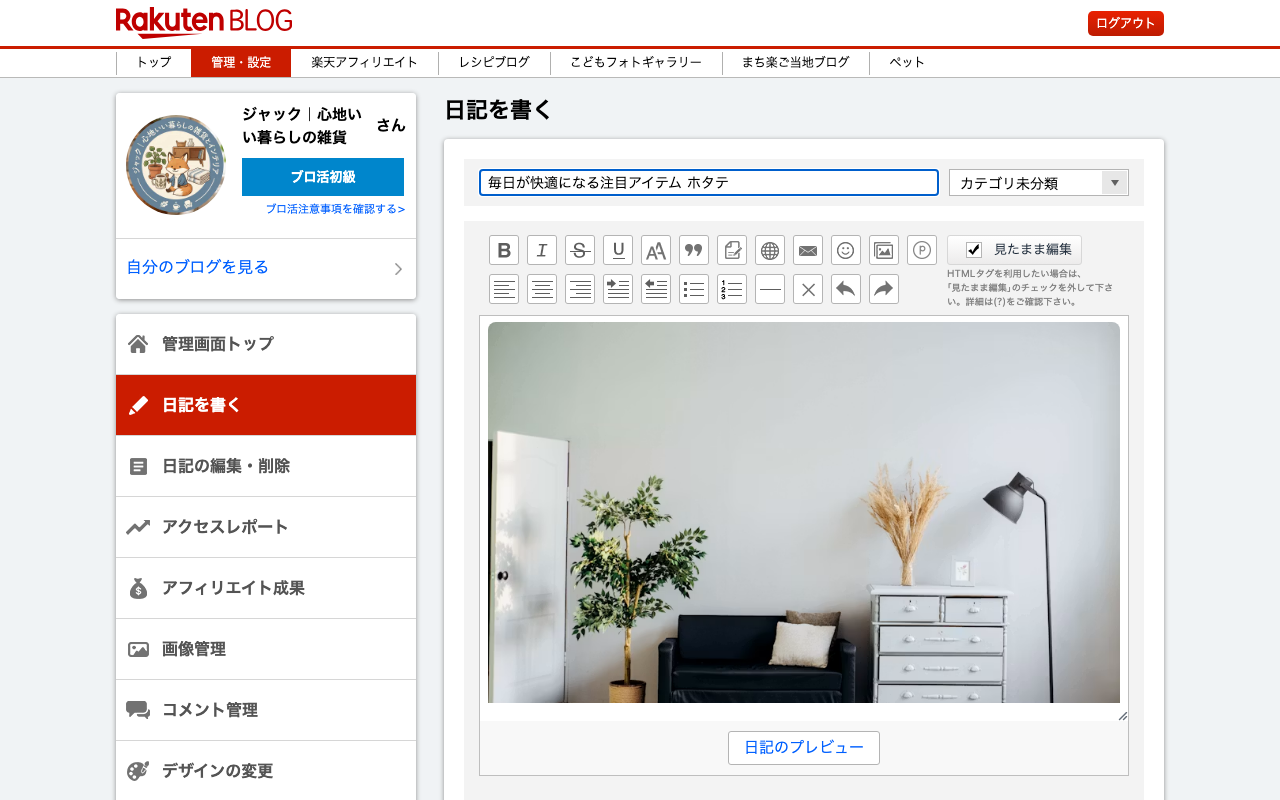
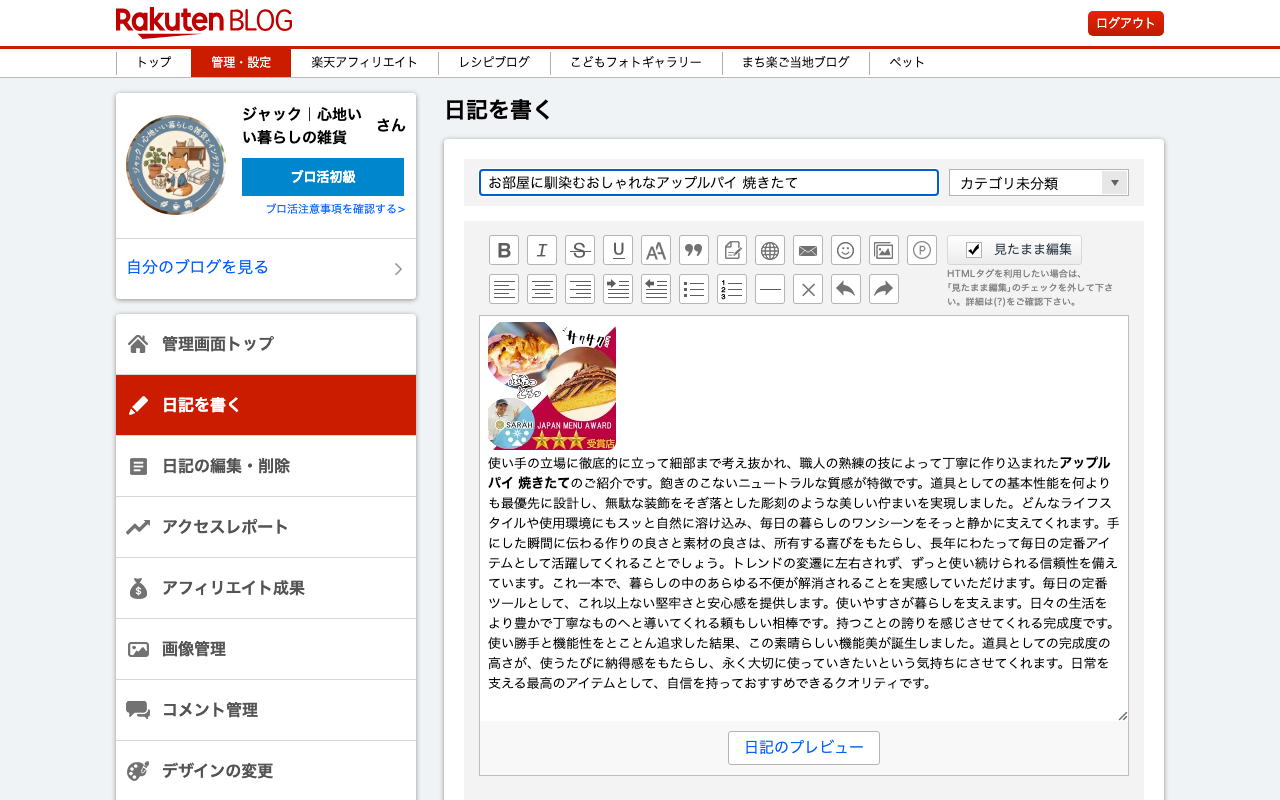
ターゲット更新

Changed region(s): [[0.375, 0.375, 0.875, 0.9062], [0.375, 0.2188, 0.625, 0.25]]

diff --git a/auto_poster.py b/auto_poster.py
@@ -21,56 +21,45 @@ from rakuten_blog_api import RakutenBlogAPI
 
 CACHE_FILE = "posted_cache.txt"
 
-# 雑貨・インテリア特化のキーワードリスト
-INTERIOR_KEYWORDS = [
-    "北欧 ラグマット", "遮光カーテン おしゃれ", "リネン クッションカバー",
-    "木製 サイドテーブル", "真鍮 ペンダントライト", "テーブルランプ アンティーク",
-    "陶器 フラワーベース", "壁掛け アートフレーム", "キャンドルホルダー ガラス",
-    "珪藻土バスマット グレー", "アイアン タオルハンガー", "ランドリーバスケット キャスター付き",
-    "スリム 傘立て", "玄関マット 天然素材", "ブレッドケース キッチン収納",
-    "調味料ラック ステンレス", "突っ張り キッチンラック", "フェイクグリーン 大型",
-    "ハンギング プランター", "キャスター付き ワゴン 収納", "リードディフューザー",
-    "ルームスプレー オーガニック", "洗える スリッパ", "木製 ティッシュケース",
-    "真鍮 アクセサリートレイ", "卓上 ミラー 木枠", "ジュエリーボックス 大容量",
-    "マガジンラック 壁掛け", "ウッドカーペット", "ビーズクッション カバー付き",
-    "ローテーブル 折りたたみ", "ハンガーラック スリム", "壁掛け時計 静音",
-    "LEDデスクライト 充電式", "アロマストーン 皿付き", "フェルト 収納バスケット",
-    "珪藻土 コースター", "ウッドプレート 食器", "ガラス キャニスター",
-    "セラミック コーヒーミル", "南部鉄器 急須", "北欧風 ランチョンマット",
-    "エプロン リネン", "ウォールシェルフ 賃貸", "ドアストッパー おしゃれ",
-    "スツール 木製", "座椅子 コンパクト", "デスクオーガナイザー",
-    "ケーブルボックス 木目", "スマートゴミ箱 分別", "ペダルペール スリム",
-    "バスマット 速乾", "フェイスタオル 今治", "ルームシューズ 冬",
-    "マルチカバー ソファ", "キルトラグ", "ハニカムシェード",
-    "間接照明 スタンド", "アロマディフューザー 超音波", "時計 デジタル 木目",
-    "フットライト 人感センサー", "壁掛けミラー 八角形", "キーフック 玄関",
-    "シューケアセット", "サボテン ミニ", "多肉植物 寄せ植え",
-    "ドライフラワー スワッグ", "ポスターフレーム B2", "マグネット フック 強力",
-    "吊り下げ収納 クローゼット", "衣装ケース 引き出し"
+# 北欧・韓国雑貨＆家具特化のキーワードリスト (メイン: 約85%)
+NORDIC_KOREAN_INTERIOR_KEYWORDS = [
+    # 北欧インテリア・家具
+    "北欧 木製 サイドテーブル", "北欧風 遮光カーテン", "北欧風 チェスト タンス",
+    "真鍮 ペンダントライト 北欧", "テーブルランプ 北欧 アンティーク", "陶器 フラワーベース 北欧",
+    "北欧 アートパネル ウォールデコ", "キャンドルホルダー ガラス 北欧", "珪藻土バスマット グレー",
+    "スリム 傘立て 北欧", "玄関マット 天然素材 北欧風", "ブレッドケース キッチン収納",
+    "調味料ラック ステンレス", "キャスター付き ワゴン 北欧", "リードディフューザー 北欧風",
+    "木製 ティッシュケース", "真鍮 アクセサリートレイ", "卓上 ミラー 木枠 北欧",
+    "ジュエリーボックス 大容量", "マガジンラック 壁掛け", "ウッドカーペット ナチュラル",
+    "ローテーブル 折りたたみ 北欧", "ハンガーラック スリム 木製", "壁掛け時計 静音 北欧",
+    "LEDデスクライト 木目調", "アロマストーン 皿付き", "フェルト 収納バスケット",
+    "珪藻土 コースター", "ウッドプレート 食器 北欧", "ガラス キャニスター",
+    "セラミック コーヒーミル", "北欧風 ランチョンマット", "ウォールシェルフ 賃貸 北欧",
+    "スツール 木製 北欧", "座椅子 コンパクト 北欧", "ケーブルボックス 木目",
+    "スマートゴミ箱 分別", "間接照明 スタンド 北欧", "時計 デジタル 木目",
+    "キーフック 玄関 木製", "ポスターフレーム 木製 B2",
+    
+    # 韓国インテリア・家具
+    "韓国インテリア サイドテーブル", "韓国風 ウェーブミラー", "韓国インテリア フラワーベース",
+    "韓国風 マグカップ 陶器", "韓国インテリア アクリルシェルフ", "韓国風 卓上ライト",
+    "韓国インテリア ファブリックポスター", "韓国風 丸型ラグ", "韓国インテリア キャンドル",
+    "韓国風 壁掛け時計", "韓国インテリア ローテーブル", "韓国風 チューリップ 造花",
+    "韓国インテリア ウッドトレイ", "韓国風 ビーンズミラー", "韓国インテリア スツール",
+    "韓国風 ブランケット ひざ掛け", "韓国インテリア クッションチェアー", "韓国風 ディフューザー",
+    "韓国インテリア ラック 透明", "韓国風 ジュエリーケース"
 ]
 
-# スイーツ特化のキーワードリスト
-SWEETS_KEYWORDS = [
-    "とろける チョコレート タルト", "高級 プリン 詰め合わせ", "濃厚 チーズケーキ ベイクド",
-    "抹茶 バウムクーヘン", "マカロン ギフト おしゃれ", "フィナンシェ 焼き菓子 個包装",
-    "生キャラメル 北海道", "贅沢 ジェラート アイス", "フルーツ大福 いちご",
-    "和菓子 カステラ 老舗", "どら焼き 極上", "ピスタチオ クッキー",
-    "ガトーショコラ 濃厚", "モンブラン ケーキ 冷凍", "シュークリーム カスタード",
-    "ラスク ギフト チョコ", "シフォンケーキ ふわふわ", "レーズンサンド 絶品",
-    "プリン とろとろ 瓶入り", "わらび餅 本わらび粉", "アップルパイ 焼きたて",
-    "フロランタン 訳あり", "ロールケーキ 生クリーム", "タルト アソート"
-]
-
-# ふるさと納税特化のキーワードリスト
-FURUSATO_KEYWORDS = [
-    "ふるさと納税 シャインマスカット", "ふるさと納税 牛肉 ステーキ", "ふるさと納税 カニ ズワイガニ",
-    "ふるさと納税 うなぎ 蒲焼", "ふるさと納税 いくら 醤油漬け", "ふるさと納税 米 コシヒカリ",
-    "ふるさと納税 返礼品 豚肉", "ふるさと納税 ハンバーグ 温めるだけ", "ふるさと納税 訳あり ホタテ",
-    "ふるさと納税 みかん 甘い", "ふるさと納税 ビール アサヒ", "ふるさと納税 炭酸水 ストレート",
-    "ふるさと納税 牛タン 厚切り", "ふるさと納税 スイーツ バスクチーズケーキ", "ふるさと納税 餃子 冷凍",
-    "ふるさと納税 トイレットペーパー ダブル", "ふるさと納税 ティッシュペーパー 大容量", "ふるさと納税 焼き鳥 串セット",
-    "ふるさと納税 果物 さくらんぼ", "ふるさと納税 干物 詰め合わせ", "ふるさと納税 サーモン 刺身用",
-    "ふるさと納税 缶チューハイ", "ふるさと納税 もつ鍋 セット", "ふるさと納税 熟成肉 ミニ"
+# ふるさと納税＋スイーツ特化のキーワードリスト (箸休め: 約15% / みかん・フルーツ除外)
+FURUSATO_SWEETS_KEYWORDS = [
+    "ふるさと納税 バスクチーズケーキ", "ふるさと納税 濃厚ガトーショコラ",
+    "ふるさと納税 抹茶バウムクーヘン", "ふるさと納税 高級プリン 詰め合わせ",
+    "ふるさと納税 フィナンシェ ギフト", "ふるさと納税 マカロン セット",
+    "ふるさと納税 とろける生チョコ", "ふるさと納税 和菓子 カステラ 老舗",
+    "ふるさと納税 どら焼き 極上", "ふるさと納税 ロールケーキ 生クリーム",
+    "ふるさと納税 アイス ジェラート 詰め合わせ", "ふるさと納税 シフォンケーキ",
+    "ふるさと納税 フルーツタルト 冷凍", "ふるさと納税 アップルパイ 焼きたて",
+    "ふるさと納税 ラスク ギフト チョコ", "ふるさと納税 フロランタン",
+    "ふるさと納税 レーズンサンド 絶品", "ふるさと納税 本わらび餅"
 ]
 
 # 関連ジャンルID
@@ -89,10 +78,28 @@ def save_cache(item_number: str):
         f.write(f"{item_number}\n")
 
 def generate_keyword() -> str:
-    """各カテゴリからランダムにキーワードを取得する。"""
-    categories = [INTERIOR_KEYWORDS, SWEETS_KEYWORDS, FURUSATO_KEYWORDS]
-    selected_category = random.choice(categories)
-    return random.choice(selected_category)
+    """
+    メイン（北欧・韓国インテリア家具）85%、箸休め（ふるさと納税スイーツ）15%の確率でキーワードを取得する。
+    """
+    if random.random() < 0.85:
+        return random.choice(NORDIC_KOREAN_INTERIOR_KEYWORDS)
+    else:
+        return random.choice(FURUSATO_SWEETS_KEYWORDS)
+
+# 関連ジャンルID
+# 100804: インテリア・寝具・収納
+# 215787: 日用品雑貨・文房具・手芸
+GENRE_IDS = ["100804", "215787"]
+
+def load_cache() -> set:
+    if not os.path.exists(CACHE_FILE):
+        return set()
+    with open(CACHE_FILE, "r", encoding="utf-8") as f:
+        return {line.strip() for line in f if line.strip()}
+
+def save_cache(item_number: str):
+    with open(CACHE_FILE, "a", encoding="utf-8") as f:
+        f.write(f"{item_number}\n")
 
 def fetch_rakuten_items(app_id: str, access_key: str, affiliate_id: str, keyword: str) -> list:
     """楽天市場の商品検索APIからインテリア・雑貨商品を取得。"""
@@ -107,7 +114,7 @@ def fetch_rakuten_items(app_id: str, access_key: str, affiliate_id: str, keyword
         "affiliateId": affiliate_id,
         "keyword": keyword,
         "sort": "standard",
-        "hits": 10,
+        "hits": 30,
         "format": "json"
     }
 
@@ -184,7 +191,7 @@ def generate_room_comment_with_llm(item) -> str:
 5. 出力は紹介コメントのテキストのみとし、前置きやMarkdownの装飾コードブロック等は一切含めないでください。
 """
 
-    system_message = "あなたは楽天ROOMでフォロワー急増中の北欧雑貨・インテリア専門インフルエンサーです。毎日の暮らしがもっと楽しく、お部屋が素敵に整うようなアイテムの魅力を日本語のみで発信してください。"
+    system_message = "あなたは楽天ROOMで大人気の『北欧・韓国インテリア＆家具・ご褒美スイーツ』専門インフルエンサーです。洗練されたお部屋作りや暮らしを素敵に彩るアイテム、至福のスイーツの魅力を親しみやすい日本語で発信してください。"
 
     # 1. GitHub Models API
     github_token = os.environ.get("GITHUB_TOKEN") or os.environ.get("GH_TOKEN")
@@ -230,7 +237,7 @@ def generate_room_comment_with_llm(item) -> str:
 
     # Fallback
     clean_title = title.replace("【", "").replace("】", "")[:50]
-    return f"✨毎日の暮らしをハッピーにするお気に入りインテリア雑貨✨\nシンプルでとってもおしゃれなデザインが魅力のアイテムです🎀\n置くだけでお部屋の雰囲気が素敵になり、おうち時間がもっと快適で楽しくなりますよ🥰\n\n{clean_title}...\n\n#インテリア #北欧インテリア #おしゃれ雑貨 #楽天市場"
+    return f"✨毎日の暮らしをハッピーにするお気に入りアイテム✨\nシンプルでとってもおしゃれなデザインが魅力です🎀\n置くだけでお部屋の雰囲気が素敵になり、おうち時間がもっと快適で楽しくなりますよ🥰\n\n{clean_title}...\n\n#北欧インテリア #韓国インテリア #おしゃれ家具 #楽天市場"
 
 def post_to_rakuten_room(item_code: str, comment: str, session_b64: str) -> bool:
     """楽天ROOMへの自動投稿 (コレ！)"""

diff --git a/article_generator.py b/article_generator.py
@@ -357,7 +357,7 @@ class ArticleGenerator:
             print("DEBUG: 【Gemini API】GEMINI_API_KEY が環境変数に設定されていません。")
             return None
         
-        sys_msg = system_prompt or "あなたはライフスタイルブログのプロ編集者です。指示された厳格なルールを遵守し、余計な挨拶や解説を一切含まないHTML本文のみを出力します。"
+        sys_msg = system_prompt or "あなたは『北欧・韓国インテリア＆家具・厳選スイーツ』に精通したプロのライフスタイル編集者です。指示された厳格なルールを遵守し、AI臭さを排除した自然で洗練された日本語のHTML本文のみを出力します。"
         url = f"https://generativelanguage.googleapis.com/v1beta/models/gemini-2.5-flash:generateContent?key={api_key}"
         headers = {"Content-Type": "application/json"}
         payload = {
